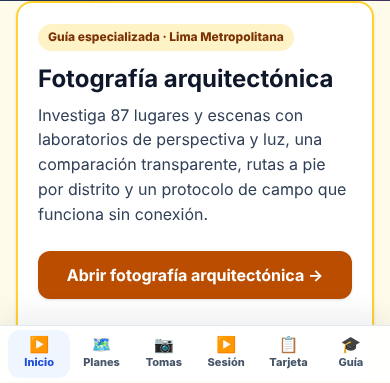
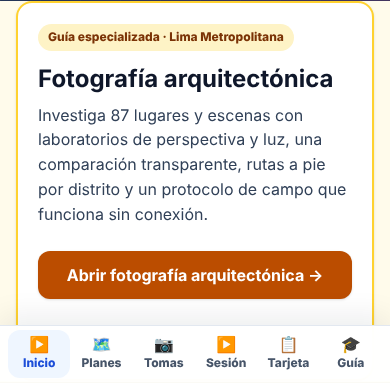
Record round 14 and raise the release gate to the new evidence
verify_release now expects at least 315 release checks and 48 field
card checks; the README lists the field card report. SESSION_HANDOFF
round 14 records V01-V15 with RED/GREEN evidence, the trade-offs and the
regressions this round found in its own work.

Claude-Session: https://claude.ai/code/session_01NWXfrGErXziSvVFeqkC6YM

diff --git a/scripts/verify_release.py b/scripts/verify_release.py
@@ -186,12 +186,14 @@ def check_evidence(report_name: str, minimum_checks: int) -> None:
 
 
 for report_name, minimum_checks in (
-    ("CURRENT_BROWSER_QA.json", 234),
+    # 249 before step 3, plus the reading floor (V10-V12) and dialogs at six viewports on two targets.
+    ("CURRENT_BROWSER_QA.json", 315),
     ("OPTICS_ACCESSIBILITY_QA.json", 22),
     ("VISUAL_RESOURCE_QA.json", 37),
     # Every shipped page, light phone and dark desktop: 39 pages x 2 passes.
     ("AXE_ACCESSIBILITY_QA.json", 78),
-    ("FIELD_CARD_QA.json", 38),
+    # 38 for the card itself (V02-V09), 10 for your own gear (V13-V15).
+    ("FIELD_CARD_QA.json", 48),
 ):
     check_evidence(report_name, minimum_checks)
 

diff --git a/architectural_photography/state/SESSION_HANDOFF.md b/architectural_photography/state/SESSION_HANDOFF.md
@@ -1213,3 +1213,83 @@ citada arriba se hizo con un script aparte; la del script completo no había cor
 Corregido en 28ef2aa. Evidencia sobre 28ef2aa sin cambios pendientes: visual 37/37,
 óptica 22/22, release 249/249 (con U05), axe 78/78; pytest 530 pass, 1 skip;
 `verify_architecture` y `verify_release` sin fallos; regeneración sin cambios.
+
+## Ronda 14 · Primero el campo, después el público (2026-10-17)
+
+Paso 3 del plan que Pablo aprobó («proceed»): uso en el campo primero (sin conexión,
+con una mano, tarjeta de campo enteramente en español, planes más útiles) y después
+el pulido público (navegación, equipo configurable con el kit de la 6D por defecto).
+El coordinador confirmó que los pasos 3 y 4 no necesitan otra consulta y que van en
+PR nuevos; fusionar sigue necesitando la palabra de Pablo. Requisitos nuevos en
+`REQUIREMENTS_INVENTORY.md`, sección V (V01–V15).
+
+### Requisitos y evidencia RED → GREEN
+
+| ID | Qué exige | RED (antes) | GREEN (después) |
+|---|---|---|---|
+| V01–V06 | Tarjeta en español, ajustes exactos por franja, nada bajo 12 px, lista de equipaje por plan, la portada embebe la tarjeta generada, franjas según la hora de Lima | `tests/test_field_card.py`: 11 de 11 fallaban (la tarjeta vieja daba diez valores genéricos por técnica, en 8–11 px y medio en inglés) | 11 pass; tarjeta generada desde `data/plans.json` dentro de `regenerate_all.py` |
+| V02–V09 (navegador) | Cambiar plan y luz, hora de Lima, sin JavaScript, imprimir, dentro del diálogo, axe, sin conexión | `field_card_qa.py` sobre la tarjeta vieja: 6 de 12 pasos no podían ni empezar (no había controles que pulsar) | FIELD_CARD_QA 48/48 (38 de la tarjeta y 10 de «tu equipo») |
+| V05 (cableado) | La integración sólo reemplaza la tarjeta; cada `getElementById` de cada página apunta a un elemento que existe; cada función llamada desde el marcado se define una vez | la tarjeta nueva borró el diálogo «Modo sesión», que estaba dentro del bloque de la tarjeta: el botón no hacía nada y ninguna prueba lo vio. `test_page_wiring.py`: 3 fallos (dos portadas sin `session-run-dialog` ni sus 6 elementos; la integración tragaba un diálogo ajeno sin avisar). El red team halló `openFieldCard`/`closeFieldCard` definidas dos veces (en b86aa96: 2 y 2) | diálogo restaurado fuera del bloque; la integración se niega a reemplazar un bloque con otro marcado; una sola definición del diálogo de la tarjeta (inerte el resto, foco atrapado, Escape sólo si está abierta); 37 pass. `reading_floor.audit_home` informa de un diálogo que no se abre en vez de medir la página de detrás |
+| V07 | Planes y diagramas funcionan sin servidor tras una visita y un toque, y sobreviven a un despliegue | el service worker viejo borraba toda caché que no fuera de su versión (`VERSION` = hash del contenido): cada despliegue vaciaba los planes visitados | paquete `focalruta-pack` explícito, fuera del versionado; la QA simula un despliegue y apaga el servidor |
+| V10–V12 | Portada y páginas de plan: nada bajo 12 px, controles de 44 px, interfaz en español | estática: 14 de 16 fallos; navegador a 390 px: 690 textos bajo 12 px, 353 controles bajo 44 px y 13 palabras en inglés en los estados recorridos | 0 / 0 / 0 en las seis vistas obligatorias y en las seis páginas de plan, en todos los estados (`reading_floor.py`) |
+| V13 | Ajuste equivalente para la cámara y los lentes del lector | sin la adaptación, el lector calculaba a mano factor de recorte, apertura equivalente y exposición. Mutaciones de `gear.js` que la suite mata: CoC sin escalar (4 fallos), hiperfocal sin escalar con la distancia (3), apertura copiada del plan (5), focal sin multiplicar por el factor (9), ND ignorado en el ISO (lo detecta la rejilla de 14 400 ajustes) | 31 pass: mismo encuadre (±2 %), misma PDC proporcional (hiperfocal a ⅙ de paso), misma exposición (⅓ de paso salvo luz que falte, y entonces lo dice) |
+| V13 (notas) | Las notas no se contradicen y el trípode sigue la regla recíproca sobre la focal equivalente | con el `gear.js` anterior, 4 de 5 equipos reales fallaban: «tu lente no abre tanto» junto a «cierro el diafragma» (A05, B06…), y «usa trípode» a 1/100 con 31 mm en Micro 4/3 (equivalente 64 mm) | la nota del límite del lente se omite si al final se cierra el diafragma; trípode sólo por debajo de 1/(focal equivalente); «1 paso»; notas impersonales |
+| V14 | El kit de la 6D es el valor por defecto y no cambia nada | — | ninguna línea extra; 180 franjas idénticas |
+| V15 | Selector en la portada; el mismo `gear.js` en portada, páginas de plan, tarjeta y laboratorio óptico; el equipo guardado no puede inyectar marcado | sin limpiar, un lente guardado con `<img onerror>` llegaba tal cual a la página | 8 páginas con el mismo script; nombre limpio y lentes inválidos descartados; paso `your_gear` del navegador (9 comprobaciones, con el A01 calculado a mano: «22 mm (zoom 18–55) · f/7.1 · 1/125 · ISO 160») |
+
+### Cambios visibles
+
+- Tarjeta de campo nueva: plan y luz con un pulgar, barra de secciones abajo, «siguiente
+  toma pendiente», ventanas horarias del día elegido, lista de equipaje por plan,
+  pantalla de noche roja, pantalla siempre encendida, progreso guardado, imprime limpia.
+  Funciona sin JavaScript (radios y `:has()`).
+- Portada y planes: 12 px mínimo (las etiquetas del laboratorio óptico se escalan con
+  el SVG y, por debajo de 520 px, pasan a la leyenda), botones y enlaces de 44 px,
+  «Casa / Laboratorio», «tarjeta de campo», «campo visual», «enfoque mínimo», «efecto
+  zoom», «pintura con luz». 120 diagramas redibujados («campo visual»).
+- «Tu equipo»: cámara (seis formatos), ISO máximo aceptado y lentes (habituales o
+  propios). Cada toma, plan y la tarjeta muestran «Con tu equipo: …» con lo que
+  cambia y por qué; el laboratorio óptico usa el sensor y el círculo de confusión del
+  lector. Se guarda en el dispositivo.
+
+### Compromisos explícitos
+
+- La equivalencia usa lente delgada y conserva la PDC en proporción a la distancia:
+  si el lente obliga a acercarse o alejarse, cambia la perspectiva (lo dice la nota).
+  El círculo de confusión es 0,03 mm × ancho del sensor / 35,8.
+- Límites genéricos de cuerpo: 1/4000 s, f/22, ISO entre 100 y el máximo que el lector
+  acepta. Una cámara con 1/8000 o ISO 50 rinde algo más de lo que se le promete.
+- Con poca luz se quita antes el ND, luego se alarga la exposición (técnicas de
+  apertura) o se abre el diafragma (técnicas de movimiento); si aun así falta luz, la
+  línea dice cuántos pasos.
+- La lista de equipaje sigue nombrando las roscas de filtro del kit de la 6D.
+- El paquete sin conexión es explícito (≈ 11 MB: seis planes y sus 120 diagramas) y no
+  se precachea al instalar: se baja con un toque en la tarjeta. Se copia de un
+  despliegue al siguiente.
+- La tarjeta de campo pesa 280 KB / 42 KB con gzip (antes 227 KB / 32 KB): la tabla de ajustes por
+  franja para «tu equipo» y `gear.js` van dentro para que funcione sin conexión.
+- Los diagramas PNG siguen con texto pequeño cuando el teléfono los reduce; se pueden
+  ampliar en el visor.
+
+### Cierre (comandos, código de salida, resumen)
+
+| Comando | Salida | Resumen |
+|---|---|---|
+| `python3 -m pytest -q` | 0 | 627 pass, 1 skip |
+| `python3 scripts/verify_architecture.py` | 0 | `checks_failed: []` |
+| `python3 scripts/verify_release.py` | 0 | `checks_failed: []`; mínimos subidos a 315 (release) y 48 (tarjeta) |
+| `ruff check scripts tests --select C901` (máx. 10) | 0 | sin hallazgos |
+| `python3 scripts/regenerate_all.py && git diff --exit-code` | 0 | sin cambios |
+| QA de navegador (`--with-browser-qa`, Chromium + axe 4.10.3) sobre 3a84dc3 limpio | 0 | visual 37/37, óptica 22/22, release 315/315, axe 78/78, tarjeta 48/48 |
+| Cinco suites `tests/architecture/browser_*.py` | 0 | en verde; `whole_site_integration` falló una vez porque regeneré `dist/` mientras corría y pasó al repetirla sola |
+
+Verificación independiente: el red team recibe el PR del paso 3 para revisarlo.
+
+### Errores propios encontrados en esta ronda
+
+- La tarjeta nueva borró «Modo sesión» (ver V05). Lo encontró la QA de release, no
+  una prueba estática; ahora hay una.
+- `browser_release_qa.py` no llegaba a su comprobación offline desde b86aa96 (`time`
+  sombreado por un bucle). Corregido en PR #19 (28ef2aa).
+- Los reportes decían `+dirty` por escribirse uno tras otro; `evidence.QA_REPORTS`
+  exime sólo a los cinco reportes por nombre (pedido del red team).

diff --git a/README.md b/README.md
@@ -11,13 +11,18 @@ GitHub Pages deploys the optimized runtime from `dist/canon6d_sota_hosted`.
 The release gate (`python3 scripts/verify_release.py`) fails unless five browser QA
 reports at the repository root still match the files they audited, byte for byte:
 
-- `CURRENT_BROWSER_QA.json` — 249 browser regression checks across six viewports,
-  including a hosted plan page that must work offline after one visit
+- `CURRENT_BROWSER_QA.json` — 315 browser regression checks across six viewports,
+  including a hosted plan page that must work offline after one visit and, on the home
+  page and every plan page, no text under 12 px, no control under 44 px and no English
+  in the interface
 - `OPTICS_ACCESSIBILITY_QA.json` — 22 optical-lab matrix and accessibility checks
 - `VISUAL_RESOURCE_QA.json` — 37 image, resource-path, font-floor and contrast checks
   (contrast on gradients is checked at every colour stop)
 - `AXE_ACCESSIBILITY_QA.json` — axe-core on all 39 published pages, light phone and
   dark desktop passes, zero violations
+- `FIELD_CARD_QA.json` — 48 field card checks on a phone: each plan's settings per light,
+  the Lima clock, no JavaScript, print, keyboard, the home page dialog, axe, offline after
+  a simulated deploy, and another camera and lenses
 
 Set up with `python3 -m pip install -r requirements-dev.txt` (what CI installs, on
 Python 3.11) and, for browser QA, `requirements-qa.txt`.
